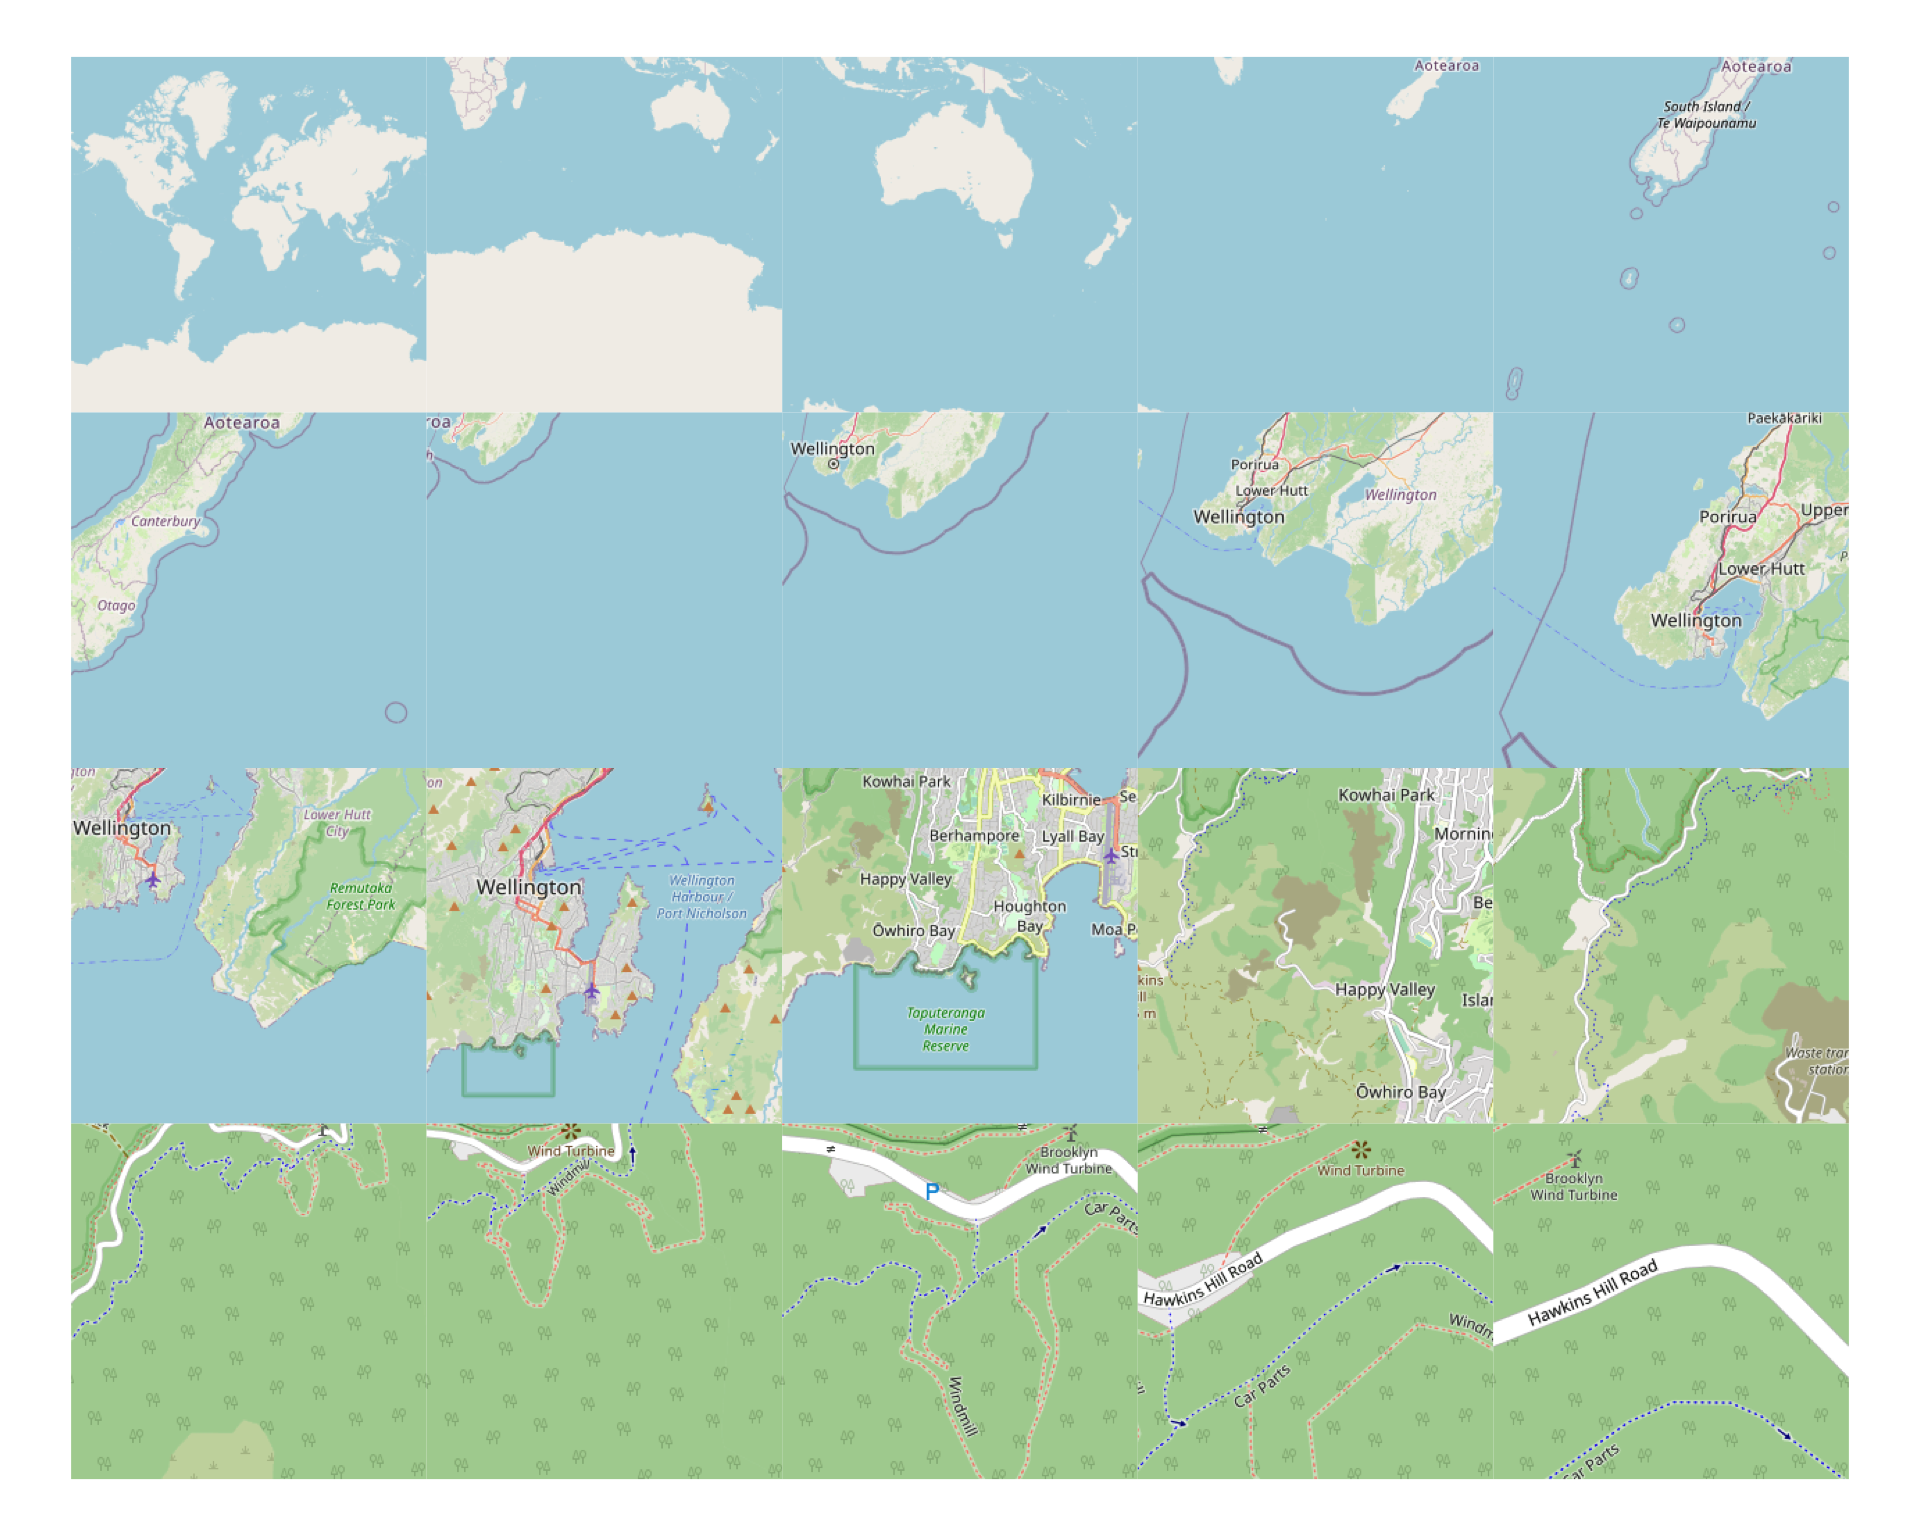
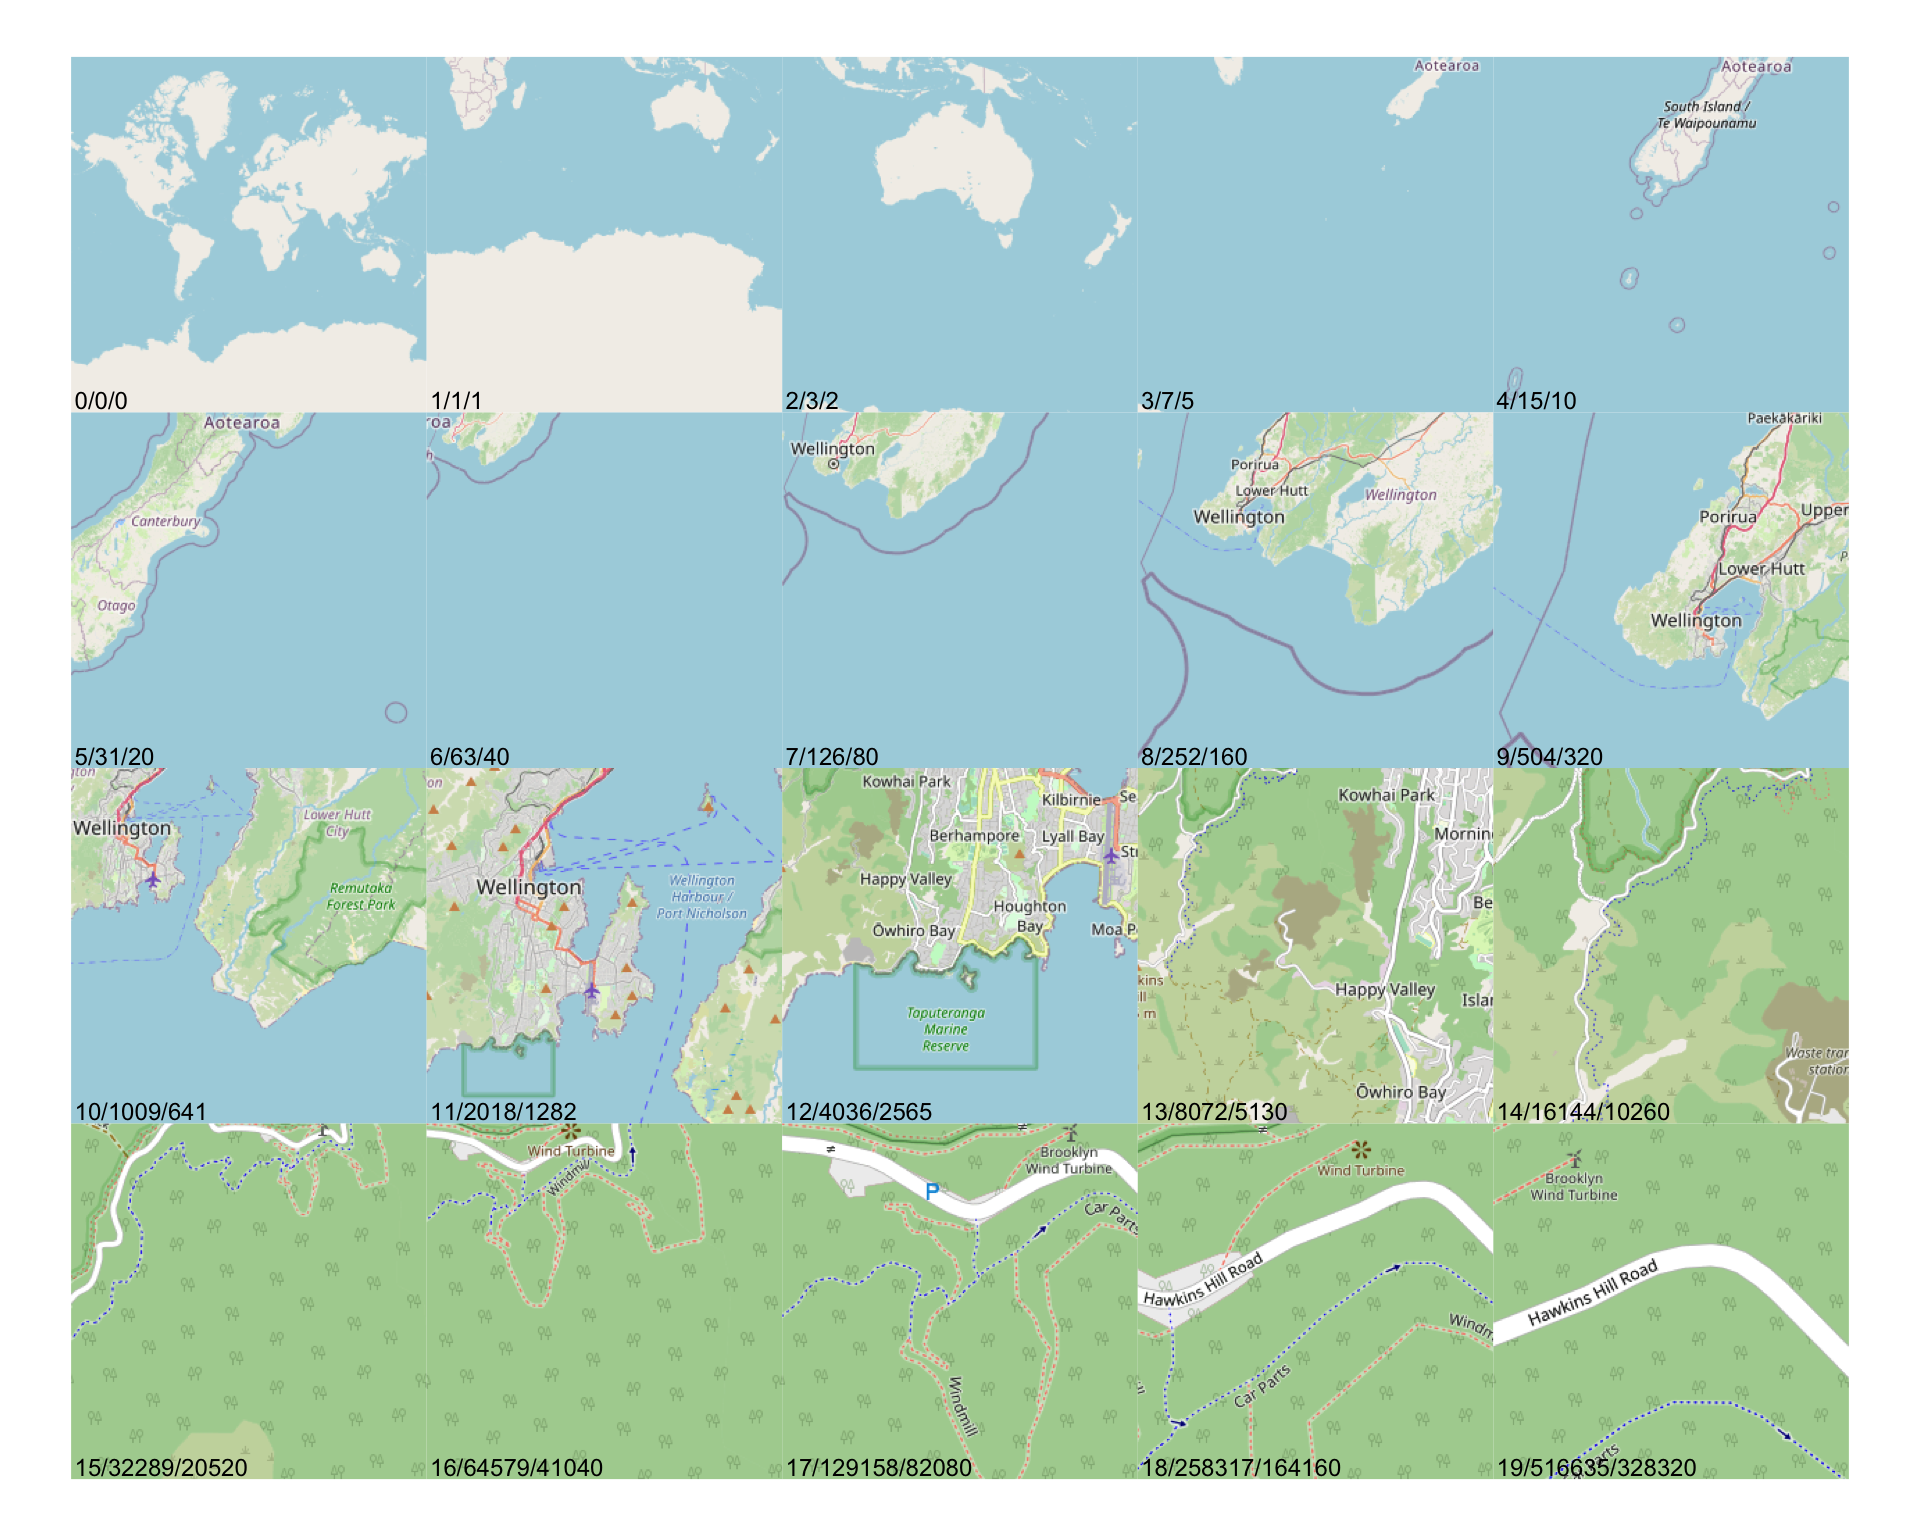
labelled the web map tiles

diff --git a/docs/chapters/chap3/fig3-04-webmap-tiles.html b/docs/chapters/chap3/fig3-04-webmap-tiles.html
@@ -207,7 +207,7 @@ pre > code.sourceCode > span > a:first-child::before { text-decoration: underlin
 </header>
 
 <p>The code below retrieves an OSM tile from level 0 all the way down to level 19 for the latitude-longitude coordinates of the <a href="https://maps.app.goo.gl/UzNcVcqZ2axZKhdy9">Broolyn Wind Turbine</a> in Wellington.</p>
-<div class="cell" data-hash="fig3-04-webmap-tiles_cache/html/unnamed-chunk-1_46735c1606ae13a78b158799be19297e">
+<div class="cell" data-hash="fig3-04-webmap-tiles_cache/html/unnamed-chunk-1_c3119993a70d2eb17f5b8016b6e192bf">
 <details open="">
 <summary>Code</summary>
 <div class="sourceCode cell-code" id="cb1"><pre class="sourceCode r code-with-copy"><code class="sourceCode r"><span id="cb1-1"><a href="#cb1-1" aria-hidden="true" tabindex="-1"></a><span class="fu">library</span>(sf)</span>
@@ -226,15 +226,21 @@ pre > code.sourceCode > span > a:first-child::before { text-decoration: underlin
 <span id="cb1-14"><a href="#cb1-14" aria-hidden="true" tabindex="-1"></a>lon <span class="ot">&lt;-</span> <span class="fl">174.74526</span></span>
 <span id="cb1-15"><a href="#cb1-15" aria-hidden="true" tabindex="-1"></a>lat <span class="ot">&lt;-</span> <span class="sc">-</span><span class="fl">41.31087</span></span>
 <span id="cb1-16"><a href="#cb1-16" aria-hidden="true" tabindex="-1"></a></span>
-<span id="cb1-17"><a href="#cb1-17" aria-hidden="true" tabindex="-1"></a><span class="cf">for</span> (zoom <span class="cf">in</span> <span class="dv">0</span><span class="sc">:</span><span class="dv">19</span>) {</span>
-<span id="cb1-18"><a href="#cb1-18" aria-hidden="true" tabindex="-1"></a>  xy <span class="ot">&lt;-</span> <span class="fu">deg2num</span>(lat, lon, zoom)</span>
-<span id="cb1-19"><a href="#cb1-19" aria-hidden="true" tabindex="-1"></a>  osm_tile_url <span class="ot">&lt;-</span> <span class="fu">str_glue</span>(<span class="st">"https://tile.openstreetmap.org/{zoom}/{xy[1]}/{xy[2]}.png"</span>)</span>
-<span id="cb1-20"><a href="#cb1-20" aria-hidden="true" tabindex="-1"></a>  <span class="fu">download.file</span>(osm_tile_url, <span class="fu">str_glue</span>(<span class="st">"tiles/{zoom}.png"</span>), <span class="at">mode =</span> <span class="st">'wb'</span>)</span>
-<span id="cb1-21"><a href="#cb1-21" aria-hidden="true" tabindex="-1"></a>}</span></code><button title="Copy to Clipboard" class="code-copy-button"><i class="bi"></i></button></pre></div>
+<span id="cb1-17"><a href="#cb1-17" aria-hidden="true" tabindex="-1"></a>df <span class="ot">&lt;-</span> <span class="fu">data.frame</span>(<span class="at">zoom =</span> <span class="dv">0</span><span class="sc">:</span><span class="dv">19</span>, <span class="at">tile_name =</span> <span class="st">""</span>)</span>
+<span id="cb1-18"><a href="#cb1-18" aria-hidden="true" tabindex="-1"></a><span class="cf">for</span> (zoom <span class="cf">in</span> <span class="dv">0</span><span class="sc">:</span><span class="dv">19</span>) {</span>
+<span id="cb1-19"><a href="#cb1-19" aria-hidden="true" tabindex="-1"></a>  xy <span class="ot">&lt;-</span> <span class="fu">deg2num</span>(lat, lon, zoom)</span>
+<span id="cb1-20"><a href="#cb1-20" aria-hidden="true" tabindex="-1"></a>  tile_name <span class="ot">&lt;-</span> <span class="fu">str_glue</span>(<span class="st">"{zoom}/{xy[1]}/{xy[2]}"</span>)</span>
+<span id="cb1-21"><a href="#cb1-21" aria-hidden="true" tabindex="-1"></a>  df<span class="sc">$</span>tile_name[zoom <span class="sc">+</span> <span class="dv">1</span>] <span class="ot">&lt;-</span> tile_name</span>
+<span id="cb1-22"><a href="#cb1-22" aria-hidden="true" tabindex="-1"></a>  osm_tile_url <span class="ot">&lt;-</span> <span class="fu">str_glue</span>(<span class="st">"https://tile.openstreetmap.org/{tile_name}.png"</span>)</span>
+<span id="cb1-23"><a href="#cb1-23" aria-hidden="true" tabindex="-1"></a>  <span class="fu">download.file</span>(osm_tile_url, <span class="fu">str_glue</span>(<span class="st">"tiles/{zoom}.png"</span>), <span class="at">mode =</span> <span class="st">'wb'</span>)</span>
+<span id="cb1-24"><a href="#cb1-24" aria-hidden="true" tabindex="-1"></a>}</span>
+<span id="cb1-25"><a href="#cb1-25" aria-hidden="true" tabindex="-1"></a>df <span class="ot">&lt;-</span> df <span class="sc">%&gt;%</span></span>
+<span id="cb1-26"><a href="#cb1-26" aria-hidden="true" tabindex="-1"></a>  <span class="fu">mutate</span>(<span class="at">left =</span> zoom <span class="sc">%%</span> <span class="dv">5</span>, <span class="at">bottom =</span> <span class="dv">3</span> <span class="sc">-</span> zoom <span class="sc">%/%</span> <span class="dv">5</span>, </span>
+<span id="cb1-27"><a href="#cb1-27" aria-hidden="true" tabindex="-1"></a>         <span class="at">right =</span> left <span class="sc">+</span> <span class="dv">1</span>, <span class="at">top =</span> bottom <span class="sc">+</span> <span class="dv">1</span>)</span></code><button title="Copy to Clipboard" class="code-copy-button"><i class="bi"></i></button></pre></div>
 </details>
 </div>
 <p>Here they all are (there is probably a better way to do this, but sometimes in <em>R</em> it’s easier just to write the code).</p>
-<div class="cell" data-hash="fig3-04-webmap-tiles_cache/html/unnamed-chunk-2_24c96c14601c1d7da8811c9109fa3b60">
+<div class="cell" data-hash="fig3-04-webmap-tiles_cache/html/unnamed-chunk-2_69b30267a28f44fb83db6f2d5da95811">
 <details open="">
 <summary>Code</summary>
 <div class="sourceCode cell-code" id="cb2"><pre class="sourceCode r code-with-copy"><code class="sourceCode r"><span id="cb2-1"><a href="#cb2-1" aria-hidden="true" tabindex="-1"></a><span class="fu">library</span>(png)</span>
@@ -242,10 +248,12 @@ pre > code.sourceCode > span > a:first-child::before { text-decoration: underlin
 <span id="cb2-3"><a href="#cb2-3" aria-hidden="true" tabindex="-1"></a><span class="fu">par</span>(<span class="at">mai =</span> <span class="fu">rep</span>(<span class="dv">0</span>, <span class="dv">4</span>))</span>
 <span id="cb2-4"><a href="#cb2-4" aria-hidden="true" tabindex="-1"></a><span class="fu">plot</span>(<span class="dv">1</span>, <span class="at">xlim =</span> <span class="fu">c</span>(<span class="dv">0</span>, <span class="dv">5</span>), <span class="at">ylim =</span> <span class="fu">c</span>(<span class="dv">0</span>, <span class="dv">4</span>), <span class="at">xlab =</span> <span class="st">""</span>, <span class="at">ylab =</span> <span class="st">""</span>, </span>
 <span id="cb2-5"><a href="#cb2-5" aria-hidden="true" tabindex="-1"></a>     <span class="at">type =</span> <span class="st">"n"</span>, <span class="at">asp =</span> <span class="dv">1</span>, <span class="at">axes =</span> <span class="cn">FALSE</span>)</span>
-<span id="cb2-6"><a href="#cb2-6" aria-hidden="true" tabindex="-1"></a><span class="cf">for</span> (i <span class="cf">in</span> <span class="dv">0</span><span class="sc">:</span><span class="dv">19</span>) {</span>
-<span id="cb2-7"><a href="#cb2-7" aria-hidden="true" tabindex="-1"></a>  img <span class="ot">&lt;-</span> <span class="fu">readPNG</span>(<span class="fu">str_glue</span>(<span class="st">"tiles/{i}.png"</span>))</span>
-<span id="cb2-8"><a href="#cb2-8" aria-hidden="true" tabindex="-1"></a>  <span class="fu">rasterImage</span>(img, i <span class="sc">%%</span> <span class="dv">5</span>, <span class="dv">3</span> <span class="sc">-</span> (i <span class="sc">%/%</span> <span class="dv">5</span>), i <span class="sc">%%</span> <span class="dv">5</span> <span class="sc">+</span> <span class="dv">1</span>, <span class="dv">4</span> <span class="sc">-</span> (i <span class="sc">%/%</span> <span class="dv">5</span>))</span>
-<span id="cb2-9"><a href="#cb2-9" aria-hidden="true" tabindex="-1"></a>}</span></code><button title="Copy to Clipboard" class="code-copy-button"><i class="bi"></i></button></pre></div>
+<span id="cb2-6"><a href="#cb2-6" aria-hidden="true" tabindex="-1"></a></span>
+<span id="cb2-7"><a href="#cb2-7" aria-hidden="true" tabindex="-1"></a><span class="cf">for</span> (i <span class="cf">in</span> <span class="dv">1</span><span class="sc">:</span><span class="dv">20</span>) {</span>
+<span id="cb2-8"><a href="#cb2-8" aria-hidden="true" tabindex="-1"></a>  img <span class="ot">&lt;-</span> <span class="fu">readPNG</span>(<span class="fu">str_glue</span>(<span class="st">"tiles/{df$zoom[i]}.png"</span>))</span>
+<span id="cb2-9"><a href="#cb2-9" aria-hidden="true" tabindex="-1"></a>  <span class="fu">rasterImage</span>(img, df<span class="sc">$</span>left[i], df<span class="sc">$</span>bottom[i], df<span class="sc">$</span>right[i], df<span class="sc">$</span>top[i])</span>
+<span id="cb2-10"><a href="#cb2-10" aria-hidden="true" tabindex="-1"></a>}</span>
+<span id="cb2-11"><a href="#cb2-11" aria-hidden="true" tabindex="-1"></a><span class="fu">text</span>(df<span class="sc">$</span>left <span class="sc">+</span> <span class="fl">0.01</span>, df<span class="sc">$</span>bottom <span class="sc">+</span> <span class="fl">0.01</span>, df<span class="sc">$</span>tile_name, <span class="at">adj =</span> <span class="fu">c</span>(<span class="dv">0</span>, <span class="dv">0</span>), <span class="at">cex =</span> <span class="fl">0.75</span>)</span></code><button title="Copy to Clipboard" class="code-copy-button"><i class="bi"></i></button></pre></div>
 </details>
 <div class="cell-output-display">
 <p><img src="fig3-04-webmap-tiles_files/figure-html/unnamed-chunk-2-1.png" class="img-fluid" width="960"></p>

diff --git a/docs/index-listing.html b/docs/index-listing.html
@@ -283,7 +283,7 @@ ul.task-list li input[type="checkbox"] {
 <a href="./chapters/chap3/links-3.html" class="title listing-title">Links for Chapter 3</a>
 </td>
 </tr>
-<tr data-index="10" data-categories="code,R,extras" data-listing-file-modified-sort="1698896085791" data-listing-reading-time-sort="2" data-listing-title-sort="Figure 3.4 ~~Three~~ twenty levels of web map hierarchy" data-listing-filename-sort="fig3-04-webmap-tiles.qmd">
+<tr data-index="10" data-categories="code,R,extras" data-listing-file-modified-sort="1698899826387" data-listing-reading-time-sort="3" data-listing-title-sort="Figure 3.4 ~~Three~~ twenty levels of web map hierarchy" data-listing-filename-sort="fig3-04-webmap-tiles.qmd">
 <td>
 <a href="./chapters/chap3/fig3-04-webmap-tiles.html" class="title listing-title">Figure 3.4 <del>Three</del> twenty levels of web map hierarchy</a>
 </td>

diff --git a/docs/chapters/chap3/index.html b/docs/chapters/chap3/index.html
@@ -235,7 +235,7 @@ Lewis Carroll’s <em>Sylvie and Bruno Concluded</em> is out of copyright and fr
 </div>
 </a>
 </div>
-<div class="g-col-1" data-index="1" data-categories="code,R,extras" data-listing-file-modified-sort="1698896085791" data-listing-reading-time-sort="2">
+<div class="g-col-1" data-index="1" data-categories="code,R,extras" data-listing-file-modified-sort="1698899826387" data-listing-reading-time-sort="3">
 <a href="../../chapters/chap3/fig3-04-webmap-tiles.html" class="quarto-grid-link">
 <div class="quarto-grid-item card h-100 card-left">
 <p class="card-img-top"><img src="fig3-04-webmap-tiles_files/figure-html/unnamed-chunk-2-1.png" style="height: 150px;"  class="thumbnail-image card-img"/></p>
